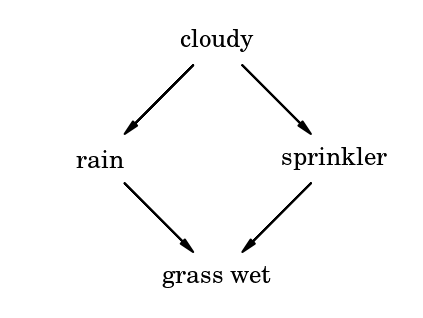
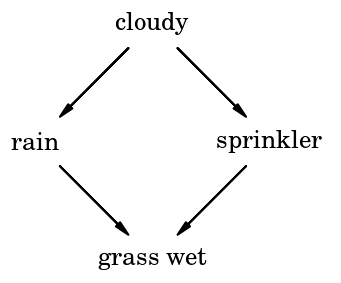
tighten box on nocircles example

diff --git a/examples/nocircles.py b/examples/nocircles.py
@@ -4,7 +4,7 @@ rc("text", usetex=True)
 import daft
 
 if __name__ == "__main__":
-    pgm = daft.PGM([3.6, 2.7], origin = [1.15, 0.65])
+    pgm = daft.PGM([2.9, 2.4], origin = [1.7, 0.8])
     pps = {"ec": "none"}
     pgm.add_node(daft.Node("cloudy", r"cloudy", 3, 3, plot_params=pps))
     pgm.add_node(daft.Node("rain", r"rain", 2, 2, plot_params=pps))
